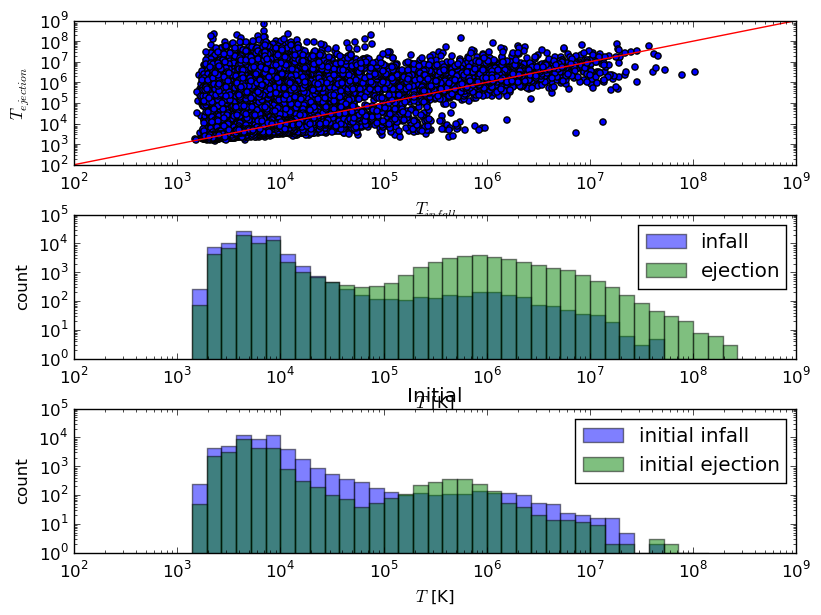
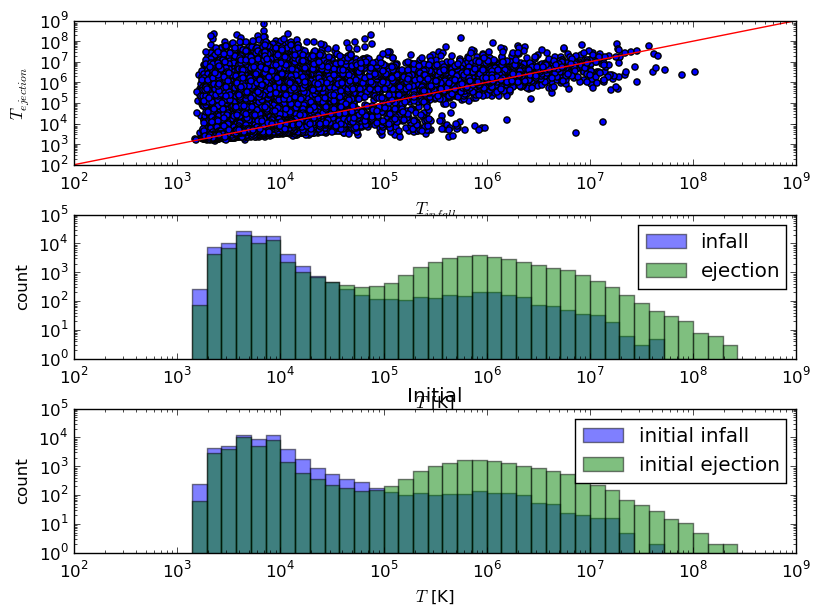
include particles with one ejection

Changed region(s): [[0.3654, 0.7415, 0.9135, 0.9268], [0.2436, 0.7106, 0.3654, 0.7724]]

diff --git a/1/temperature.py b/1/temperature.py
@@ -3,12 +3,12 @@ import matplotlib.pyplot as plt
 import numpy as np
 
 filename = __file__
-type = ('disc-Uebler', 'disc', 'ball')[2]
+type = ('disc-Uebler', 'disc', 'ball')[0]
 s, h, g = pg.prepare_zoom('/ptmp/mpa/naab/REFINED/M0977/SF_X/4x-2phase/out/snap_M0977_4x_470', gas_trace='/ptmp/mpa/naab/REFINED/M0977/SF_X/4x-2phase/gastrace_M0977_4x_%s_070_470.dat' % (type))
 
 T_ejection = [item[item > 0] for item in s.gas['T_at_ejection'][s.gas['num_recycled'] > -1]]
 T_infall = [item[item > 0] for item in s.gas['T_at_infall'][s.gas['num_recycled'] > -1]]
-T_ejection_initial = [item[item > 0][0] for item in s.gas['T_at_ejection'][s.gas['num_recycled'] > 0]]
+T_ejection_initial = [item[item > 0][0] for item in s.gas['T_at_ejection'][s.gas['num_recycled'] > -1] if len(item[item > 0]) > 0]
 T_infall_initial = [item[0] for item in s.gas['T_at_infall'][s.gas['num_recycled'] > -1]]
 
 for i, temp in enumerate(T_ejection):
